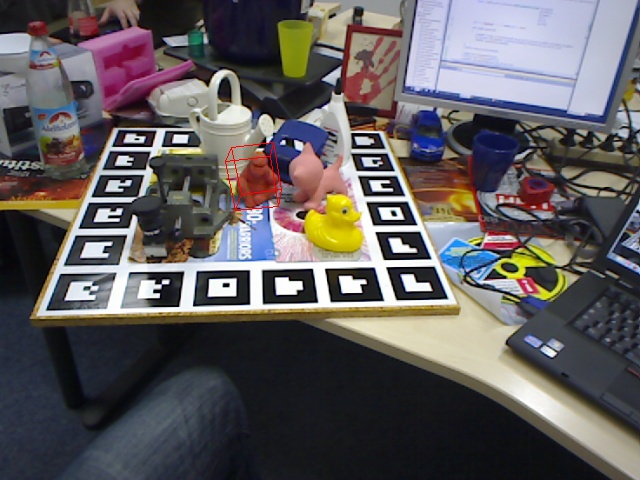
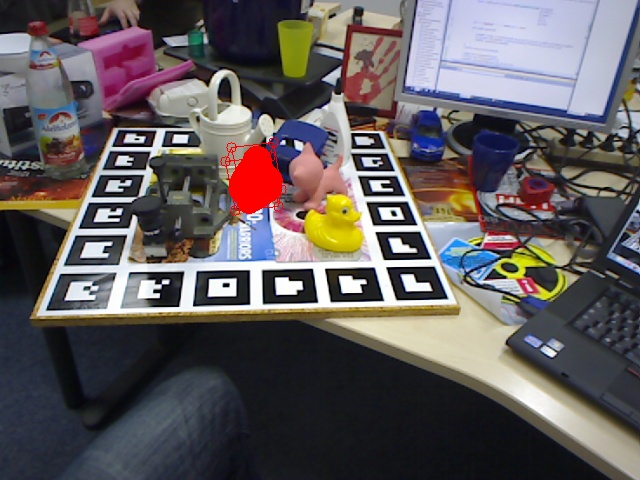
train,data file added

Changed region(s): [[0.3438, 0.2812, 0.4688, 0.4688]]

diff --git a/model_network.py b/model_network.py
@@ -9,7 +9,8 @@ import torch
 import torch.nn as nn
 import torchvision.models as models
 from torch.autograd import Variable
-
+import torch.nn.functional as F
+import numpy as np
 class RGBNet(nn.Module):
 	def __init__(self):
 		super(RGBNet, self).__init__()
@@ -21,11 +22,150 @@ class RGBNet(nn.Module):
 		image_feature = self.model(image)
 		return image_feature
 
+class STN3d(nn.Module):
+	def __init__(self, num_points = 2500):
+		super(STN3d, self).__init__()
+		self.num_points = num_points
+		self.conv1 = torch.nn.Conv1d(3, 64, 1)
+		self.conv2 = torch.nn.Conv1d(64, 128, 1)
+		self.conv3 = torch.nn.Conv1d(128, 1024, 1)
+		self.fc1 = nn.Linear(1024, 512)
+		self.fc2 = nn.Linear(512, 256)
+		self.fc3 = nn.Linear(256, 9)
+		self.relu = nn.ReLU()
+
+	def forward(self, x):
+		batchsize = x.size()[0]
+		x = F.relu(self.conv1(x))
+		x = F.relu(self.conv2(x))
+		x = F.relu(self.conv3(x))
+		x,_ = torch.max(x, 2)
+		x = x.view(-1, 1024)
+
+		x = F.relu(self.fc1(x))
+		x = F.relu(self.fc2(x))
+		x = self.fc3(x)
+
+		iden = Variable(torch.from_numpy(np.array([1,0,0,0,1,0,0,0,1]).astype(np.float32))).view(1,9).repeat(batchsize,1)
+		if x.is_cuda:
+			iden = iden.cuda()
+		x = x + iden
+		x = x.view(-1, 3, 3)
+		return x
+
+
+class PointNetfeat(nn.Module):
+	def __init__(self, num_points = 2500, global_feat = True, trans = False):
+		super(PointNetfeat, self).__init__()
+		self.stn = STN3d(num_points = num_points)
+		self.conv1 = torch.nn.Conv1d(3, 64, 1)
+		self.conv2 = torch.nn.Conv1d(64, 128, 1)
+		self.conv3 = torch.nn.Conv1d(128, 1024, 1)
+
+		self.bn1 = torch.nn.BatchNorm1d(64)
+		self.bn2 = torch.nn.BatchNorm1d(128)
+		self.bn3 = torch.nn.BatchNorm1d(1024)
+		self.trans = trans
+
+
+		self.num_points = num_points
+		self.global_feat = global_feat
+	def forward(self, x):
+		batchsize = x.size()[0]
+		if self.trans:
+			trans = self.stn(x)
+			x = x.transpose(2,1)
+			x = torch.bmm(x, trans)
+			x = x.transpose(2,1)
+		x = F.relu(self.bn1(self.conv1(x)))
+		pointfeat = x
+		x = F.relu(self.bn2(self.conv2(x)))
+		x = self.bn3(self.conv3(x))
+		x,_ = torch.max(x, 2)
+		x = x.view(-1, 1024)
+		if self.trans:
+			if self.global_feat:
+				return x, trans
+			else:
+				x = x.view(-1, 1024, 1).repeat(1, 1, self.num_points)
+				return torch.cat([x, pointfeat], 1), trans
+		else:
+			return x
+
+class FeatureRegression(nn.Module):
+    def __init__(self, inputdim=128,bottleneck=1024):
+        super(FeatureRegression, self).__init__()
+        self.inputdim=inputdim
+        self.conv = nn.Sequential(
+            nn.Conv1d(self.inputdim, 2048, 1),
+            nn.BatchNorm1d(2048),
+            nn.ReLU(inplace=True),
+            nn.Conv1d(2048, 1024, 1),
+            nn.BatchNorm1d(1024),
+            nn.ReLU(inplace=True),
+        )
+
+    def forward(self, x):
+        x = self.conv(x)
+        return x
+class ImageNet(torch.nn.Module):
+    def __init__(self, use_cuda=True, feature_extraction_cnn='resnet101', last_layer=''):
+        super(ImageNet, self).__init__()
+        if feature_extraction_cnn == 'resnet101':
+            self.model = models.resnet101(pretrained=True)
+            resnet_feature_layers = ['conv1',
+                                     'bn1',
+                                     'relu',
+                                     'maxpool',
+                                     'layer1',
+                                     'layer2',
+                                     'layer3',
+                                     'layer4']
+            if last_layer == '':
+                last_layer = 'layer3'
+            last_layer_idx = resnet_feature_layers.index(last_layer)
+            resnet_module_list = [self.model.conv1,
+                                  self.model.bn1,
+                                  self.model.relu,
+                                  self.model.maxpool,
+                                  self.model.layer1,
+                                  self.model.layer2,
+                                  self.model.layer3,
+                                  self.model.layer4]
+
+            self.model = nn.Sequential(*resnet_module_list[:last_layer_idx + 1])
+        # freeze parameters
+        for param in self.model.parameters():
+            param.requires_grad = False
+        # move to GPU
+        if use_cuda:
+            self.model.cuda()
+
+    #input size: B*3*640*480 outputsize: B*1024*40*30
+    def forward(self, image_batch):
+        return self.model(image_batch)
+
+
+class ContinuousField(torch.nn.module):
+	def __init__(self):
+		wor
+	def forward(self):
+def intergrateFeature(pc_feature,rgb_feature):
+	return pc_feature+rgb_feature
 
 if __name__ == '__main__':
 	rgbNet = RGBNet()
+	imgNet = ImageNet()
 	img = cv2.imread("test.jpg")
+	regression = FeatureRegression().cuda()
 	img = torch.from_numpy(img).float().cuda()
 	data = torch.randn(1,3,640,480).cuda()
 	x = rgbNet(data,None)
-	print x.shape
+	x = regression(x)
+	z = imgNet(data)
+	pointNet = PointNetfeat().cuda()
+	data = torch.randn(1,3,2048).float().cuda()
+	y = pointNet(data)
+	
+
+	print x.shape,y.shape, z.shape

diff --git a/train.py b/train.py
@@ -1,0 +1,82 @@
+"""
+1.set the parse
+2.set the dataset
+3.set the network
+4.run epoch
+	5.1 for each pair(RGB, model),compute the the total loss
+	5.2 backward
+5.save the modeldict
+"""
+
+from __future__ import print_function, division
+import os,sys
+import torch
+import torch.nn as nn
+import torchvision.models as models
+import torch.nn.functional as F
+from torch.autograd import Variable
+import numpy as np
+import math
+import argparse
+
+parser = argparse.ArgumentParser(description='CNNGeometric PyTorch implementation')
+parser.add_argument('--batchSize', type=int, default=64, help='training batch size')
+parser.add_argument('--worker', type=int, default=1, help='data loader worker')
+parser.add_argument('--nepoch', type=int, default=60, help='number of training epochs')
+parser.add_argument('--ngpu', type=int, default=4, help='number of gpus')
+parser.add_argument('--main_gpu', type=int, default=0, help='main gpu')
+parser.add_argument('--learning_rate', type=float, default=3e-4, help='learning rate')
+parser.add_argument('--momentum', type=float, default=0.0005, help='momentum constant')
+parser.add_argument('--learning_rate_decay', type=float, default=1e-7, help='momentum constant')
+
+opt = parser.parse_args()
+print(opt)
+
+linemod_train = Linemod_Dataset(train=True,root="../linemod/")
+linemod_test = Linemod_Dataset(train=False,root="../linemod/")
+
+train_loader = torch.utils.data.DataLoader(linemod_train, batch_size=opt.batchSize,
+										  shuffle=True, num_workers=int(opt.worker), pin_memory=False)
+
+test_loader = torch.utils.data.DataLoader(linemod_test, batch_size=opt.batchSize,
+										  shuffle=False, num_workers=int(opt.worker), pin_memory=False)
+
+#set the network
+imgNet = ImageNet()
+pointNet = PointNetfeat().cuda()
+continuousField = ContinuousField().cuda()
+
+optimizer = optim.Adam(continuousField.parameters(), lr=1e-3, betas=(0.5, 0.999), eps=1e-06)
+
+continuousField.train()
+pointNet.train()
+#run the epoch
+for epoch in range(nepoch):
+	total_loss = 0
+	for id,model_cls,pointcloud,rgb in enumerate(train_loader):
+		pc_feature = pointNet(pointcloud)
+		rgb_feature = imgNet()
+		intergratingFeature = intergratingFeature(pc_feature,rgb_feature)
+		pred_x_y = continuousField(pointcloud,intergratingFeature)
+		gth_x_y = project_3d_on_2d(obj=model_cls,id,pointcloud)
+		loss = loss_func(pred_x_y,gth_x_y)
+		total += loss
+		optimizer.zero_grad()
+		loss.backward()
+		optimizer.step()
+	if epoch % 5 == 0:
+		torch.save(pointNet.state_dict(),"weigths/pointNet/{epoch}.pth")
+		torch.save(continuousField.state_dict(),"weigths/continuousField/{epoch}.pth")
+	print("Epoch {0} finished, total loss:{1}".format(epoch,total_loss))
+	print("Evaluating")
+	positives = 0
+	for id,model_cls,pointcloud,rgb in enumerate(test_loader):
+		pc_feature = pointNet(pointcloud)
+		rgb_feature = imgNet()
+		intergratingFeature = intergratingFeature(pc_feature,rgb_feature)
+		pred_x_y = continuousField(pointcloud,intergratingFeature)
+		gth_x_y = project_3d_on_2d(obj=model_cls,id,pointcloud)
+		positive,accuracy = evaluate_projection(pred_x_y,gth_x_y)
+		positives += positive 
+	print("Epoch{0} :accuracy is {:.2%}%".format(epoch, positive/len(test_loader)))
+

diff --git a/data_linemod.py b/data_linemod.py
@@ -1,0 +1,73 @@
+"""
+1.for init:
+	set a list for train/test
+"""
+
+import torch
+from torch.utils import data
+import os
+import cv2
+from plyfile import PlyData, PlyElement
+import numpy as np
+class Linemod_Dataset(data.Dataset):
+  def __init__(self, train = True,root="../linemod/"):
+		self.root = root
+		self.objs = ["ape","benchsive","cam","can","cat","driller","duck","eggbox","glue","holepuncher","iron","lamp","phone"]
+		self.list_IDs = []
+		for obj in self.objs[:1]:
+			dir_obj = self.root+obj+"/data"
+			nums = len([name for name in os.listdir(dir_obj) if os.path.isfile(os.path.join(dir_obj, name))]) / 4
+			pointcloud = readPointcloud(self.root+obj)
+			if train:
+				for i in range(nums*4/5):
+					dir_image = dir_obj+"/color{0}.jpg".format(i)
+					self.list_IDs.append((i,obj,pointcloud,dir_image))
+			else:
+				for i in range(nums*4/5,nums):
+					dir_image = dir_obj+"/color{0}.jpg".format(i)
+					self.list_IDs.append((i,obj,pointcloud,dir_image))	        		
+		
+
+  def __len__(self):
+		'Denotes the total number of samples'
+		return len(self.list_IDs)
+
+
+  #return id,model_cls,pointcloud,rgb
+  def __getitem__(self, index):
+		'Generates one sample of data'
+		id, model_cls, pointcloud, rgb_path = self.list_IDs[index]
+		#read rgb file and turn it into 3*640*480 tensor
+		rgb = readRGB(rgb_path)
+		return id,model_cls,pointcloud,rgb
+
+
+#read the pointcloud and return a n*3 tensor
+def readPointcloud(root):	
+	#0.read transformation matrix
+	Transformation = []
+	with open(root+"/transform.dat") as f:
+		line = f.readline()
+		for _ in range(12):
+			line = f.readline().split(" ")
+			Transformation.append(float(line[-1]))
+	Transformation = np.array(Transformation,dtype=np.float64).reshape(3,4)
+	plydata = PlyData.read(root+"/OLDmesh.ply")
+	#1.2save the point cloud data into a n*3 matrix
+	nx = np.expand_dims(plydata['vertex']['x'],0) 
+	ny = np.expand_dims(plydata['vertex']['y'],0) 
+	nz = np.expand_dims(plydata['vertex']['z'],0)
+	points = np.vstack((nx,ny,nz)) / 10.0
+	points = np.dot(Transformation[:,:-1],points)
+	points = points + Transformation[:,-1:]*100
+	return points
+#read the RGB and retuen a 3*640*480 tensor
+def readRGB(rgb_path):
+	img = cv2.imread(rgb_path)
+	img = cv2.transpose(img,(0,1,2,3))
+	return img.transpose((2,0,1))
+
+
+if __name__ == '__main__':
+	dataset = Linemod_Dataset()
+	print len(dataset),dataset[1]

diff --git a/util_Visulization.py b/util_Visulization.py
@@ -41,7 +41,7 @@ def draw_gth_RGB(obj="ape",id=0):
 		pointslist.append(tuple(newpoints[:3,i]/z[:,i]))
 
 		# pointslist.append(tuple(newpoints[:,i]))
-		# cv2.circle(img,(int(pointslist[i][0]),int(pointslist[i][1])),5,(0,0,255))
+		cv2.circle(img,(int(pointslist[i][0]),int(pointslist[i][1])),5,(0,0,255))
 		# img[int(pointslist[i][0]),int]
 	red = (0,0,255)
 	lines = [(0,1),(1,2),(2,3),(3,0),(4,5),(5,6),(6,7),(0,4),(1,5),(2,6),(3,7),(7,4)]
@@ -51,20 +51,20 @@ def draw_gth_RGB(obj="ape",id=0):
 
 	# #1.read a ply file
 	
-	# plydata = PlyData.read(linemod_data+obj+"/OLDmesh.ply")
+	plydata = PlyData.read(linemod_data+obj+"/OLDmesh.ply")
 
-	# #1.2save the point cloud data into a n*3 matrix
-	# nx = np.expand_dims(plydata['vertex']['x'],0) 
-	# ny = np.expand_dims(plydata['vertex']['y'],0) 
-	# nz = np.expand_dims(plydata['vertex']['z'],0)
-	# points = np.vstack((nx,ny,nz)) / 10.0
-	# newpoints = project_3d_on_2d(obj,id,points)
-	# pointslist = []
-	# z = np.vstack((newpoints[-1,:],newpoints[-1,:],newpoints[-1,:]))
-	# for i in range(newpoints.shape[1]):
-	# 	pointslist.append(tuple(newpoints[:3,i]/z[:,i]))
-	# 	# pointslist.append(tuple(newpoints[:,i]))
-	# 	cv2.circle(img,(int(pointslist[i][0]),int(pointslist[i][1])),5,(0,0,255))
+	#1.2save the point cloud data into a n*3 matrix
+	nx = np.expand_dims(plydata['vertex']['x'],0) 
+	ny = np.expand_dims(plydata['vertex']['y'],0) 
+	nz = np.expand_dims(plydata['vertex']['z'],0)
+	points = np.vstack((nx,ny,nz)) / 10.0
+	newpoints = project_3d_on_2d(obj,id,points)
+	pointslist = []
+	z = np.vstack((newpoints[-1,:],newpoints[-1,:],newpoints[-1,:]))
+	for i in range(newpoints.shape[1]):
+		pointslist.append(tuple(newpoints[:3,i]/z[:,i]))
+		# pointslist.append(tuple(newpoints[:,i]))
+		cv2.circle(img,(int(pointslist[i][0]),int(pointslist[i][1])),5,(0,0,255))
 	cv2.imwrite("color{0}.jpg".format(id),img)
 
 

diff --git a/eval.py b/eval.py
@@ -1,0 +1,10 @@
+"""
+1.set the parse
+2.set the dataset
+3.set the network
+4.load the modeldict
+5.run epoch
+	5.1 for each pair(RGB, model),compute the the total loss
+	5.2 backward
+6.compute the ec_dis and return the rate
+"""
